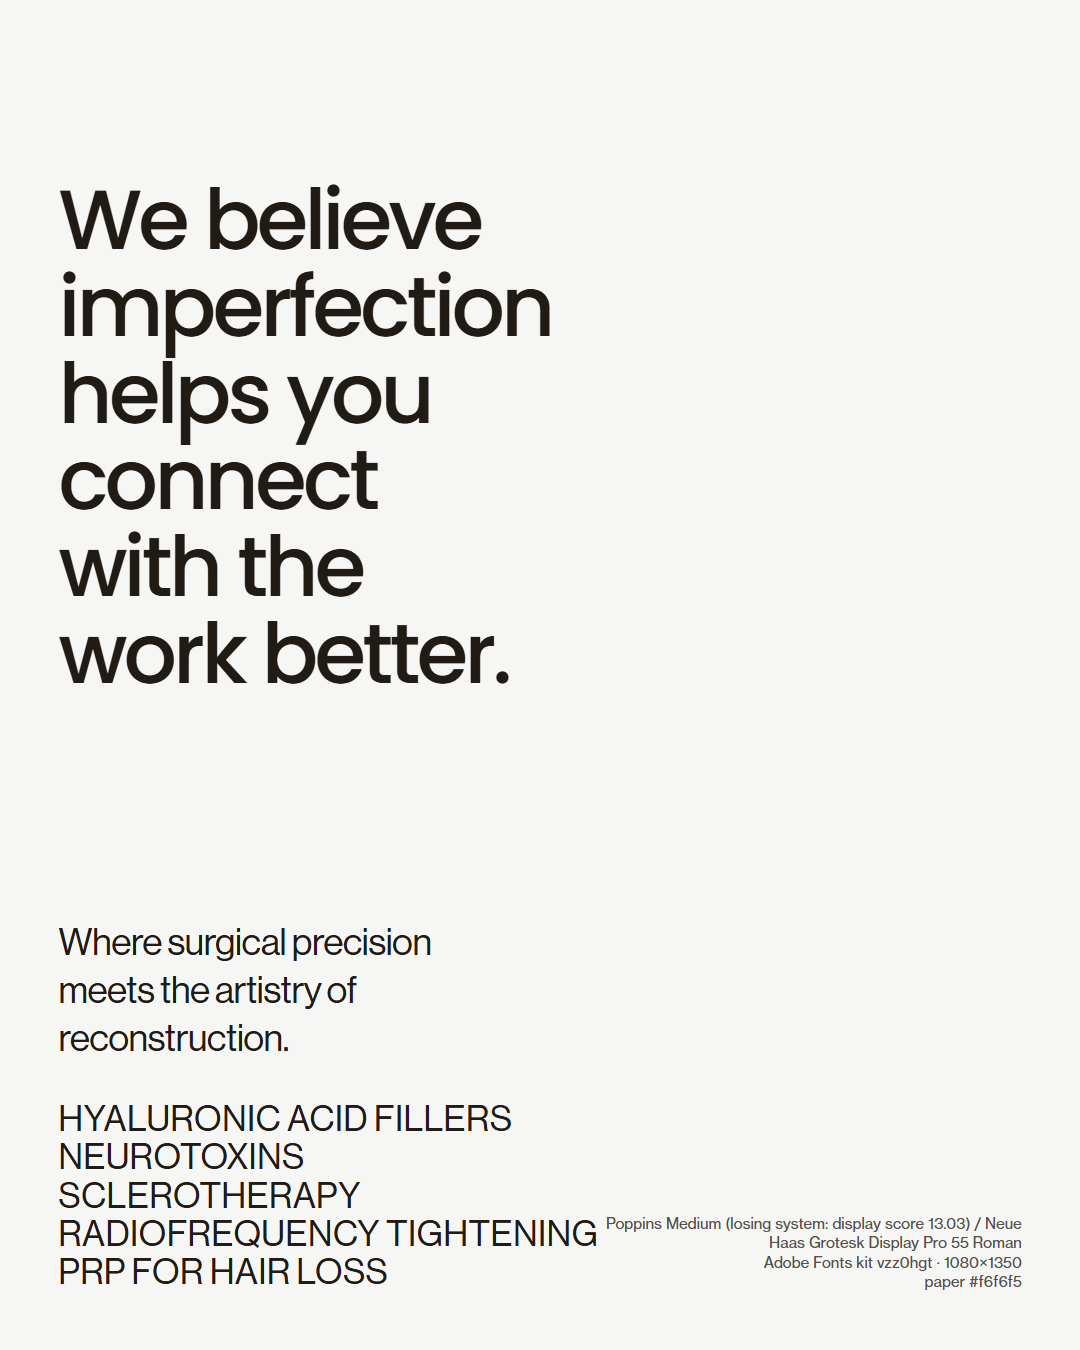
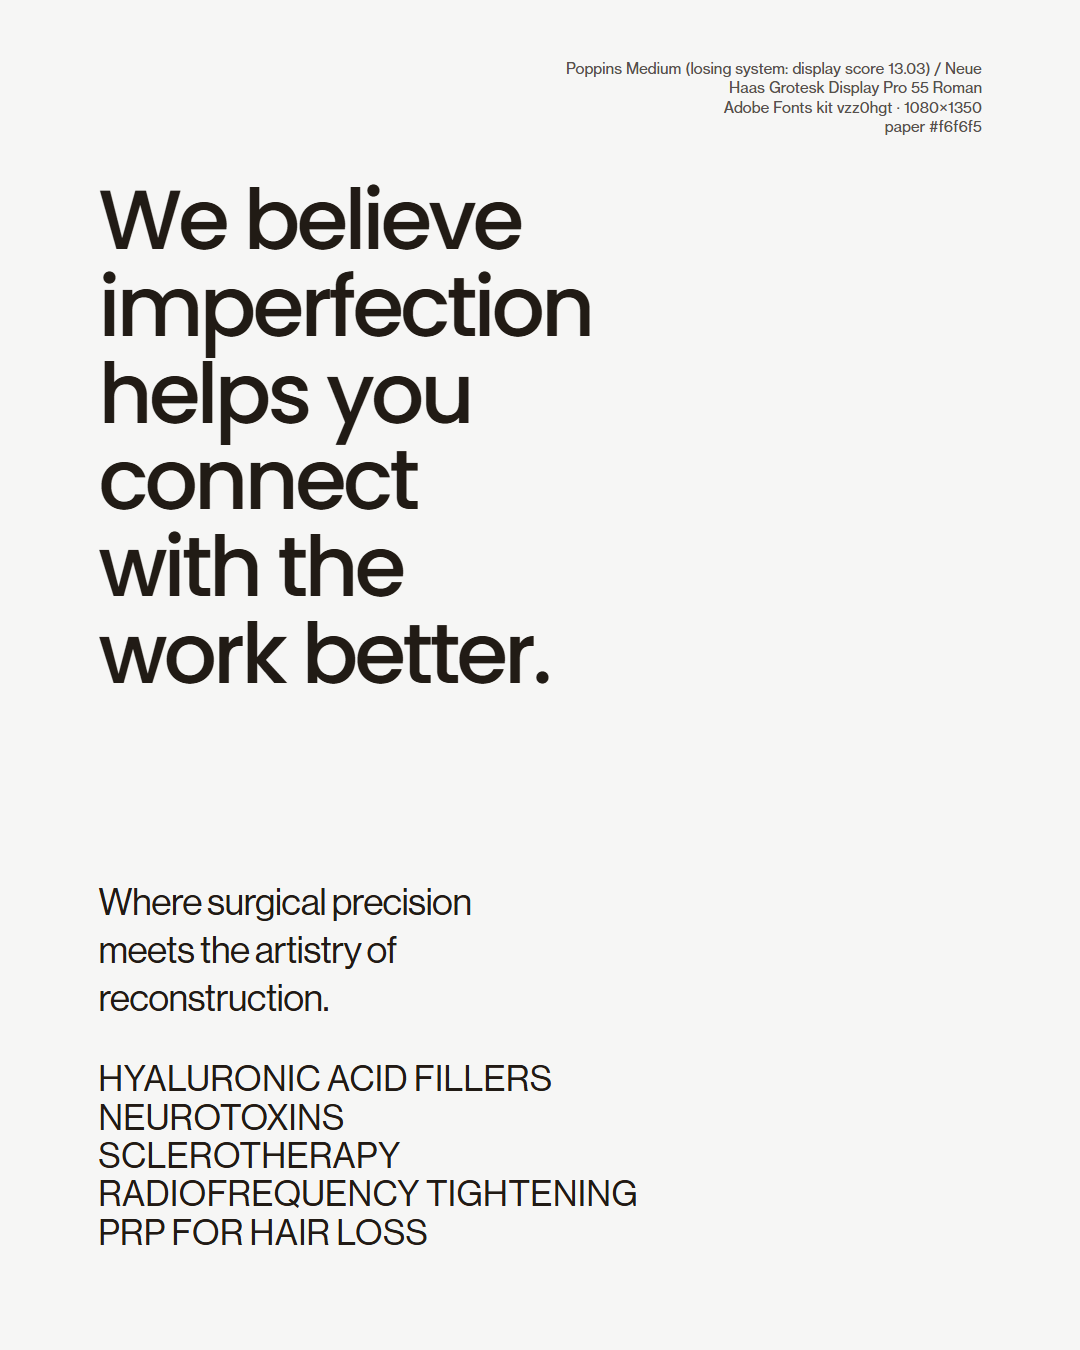
feat(brand): Phase 4 composition — post grid from measured text placement; specimen on the grid
Margin 9.1% (Instagram median, edge-touching posts excluded), 2 column starts (13.6%, 53.1%), subject middle-centre 28/39 board and 38/59 posts, safe areas for 4:5, 1:1, 9:16. Specimen re-rendered on the grid.

Changed region(s): [[0.0306, 0.6533, 0.9472, 0.9644], [0.0611, 0.1244, 0.55, 0.5289], [0.5194, 0.0311, 0.9167, 0.1244]]

diff --git a/brand/scripts/composition.py b/brand/scripts/composition.py
@@ -1,0 +1,98 @@
+"""BRANDKIT Phase 4 composition -> the post grid. Every number from metrics/pixels.json (or fonts/specimen/spec.json),
+else marked judgment call. -> composition/grid.json, composition/GRID.md, fig/composition_*.png. brand-venv python -I."""
+import json, pathlib, statistics as st, sys
+from collections import Counter
+import numpy as np
+import matplotlib; matplotlib.use("Agg")
+import matplotlib.pyplot as plt
+from matplotlib.patches import Rectangle
+from sklearn.cluster import KMeans
+from sklearn.metrics import silhouette_score
+
+sys.stdout.reconfigure(encoding="utf-8")
+B = pathlib.Path(__file__).resolve().parents[1]; O = B / "composition"; O.mkdir(exist_ok=True); FIG = B / "fig"
+px = json.load(open(B / "metrics" / "pixels.json", encoding="utf-8")); spec = json.load(open(B / "fonts" / "specimen" / "spec.json", encoding="utf-8"))
+R, IM = px["regions"], list(px["images"].values())
+INK, MUTE, RULE, PAPER = "#211b15", "#7d8075", "#d7d5d0", "#f6f6f5"
+plt.rcParams.update({"font.family": "Arial", "font.size": 9, "axes.edgecolor": MUTE, "axes.labelcolor": INK, "xtick.color": MUTE, "ytick.color": MUTE})
+
+def med(vals): vals = [v for v in vals if v is not None]; return round(st.median(vals), 2) if vals else None
+g = {"cite": {}}
+# margins: instagram image-level median left margin; edge-touching text (0) is excluded for the safe area (it is full-bleed type / UI, not a margin habit)
+ig_im = [i for i in IM if i["source"] == "instagram"]
+margins = [i["text_margin_left_pct"] for i in ig_im if i.get("text_margin_left_pct")]
+edges = [i["text_edge_min_pct"] for i in ig_im if i.get("text_edge_min_pct")]
+g["margin_pct_w"] = med(margins); g["cite"]["margin_pct_w"] = f"pixels.json images source=instagram median text_margin_left_pct (n={len(margins)}, zeros excluded)"
+g["safe_edge_pct_w"] = med(edges); g["cite"]["safe_edge_pct_w"] = f"pixels.json images source=instagram median text_edge_min_pct (n={len(edges)}, zeros excluded)"
+touching = sum(1 for i in ig_im if i.get("text_edge_min_pct") == 0)
+g["edge_touching_posts"] = touching
+# columns: k-means on instagram text left edges (not touching the edge); k by silhouette
+lefts = np.array([[r["left_pct"]] for r in R if r["source"] == "instagram" and r["left_pct"] > 1])
+best = max(range(2, 7), key=lambda k: silhouette_score(lefts, KMeans(k, n_init=10, random_state=0).fit_predict(lefts)))
+km = KMeans(best, n_init=10, random_state=0).fit(lefts)
+cols = sorted(round(float(c), 1) for c in km.cluster_centers_.ravel())
+g["column_starts_pct_w"] = cols; g["columns"] = best
+g["cite"]["columns"] = f"k-means on pixels.json regions source=instagram left_pct > 1 (n={len(lefts)}), k={best} by silhouette over 2..6"
+# subject placement
+cells = {s: Counter(i["subject_thirds_cell"] for i in IM if i["source"] == s and i.get("subject_thirds_cell")) for s in ("board", "instagram")}
+g["subject_cells"] = {s: dict(c) for s, c in cells.items()}; g["cite"]["subject_cells"] = "pixels.json images subject_thirds_cell"
+g["text_area_pct"] = {s: med([i["text_area_pct"] for i in IM if i["source"] == s]) for s in ("board", "instagram")}
+g["cite"]["text_area_pct"] = "pixels.json images median text_area_pct"
+g["headline_block_w_pct"] = spec["roles"]["headline"]["block_w_pct"]; g["caption_block_w_pct"] = spec["roles"]["caption"]["block_w_pct"]
+g["cite"]["block_w"] = "fonts/specimen/spec.json roles (pixels.json instagram medians)"
+# type scale from the spec (1080x1350)
+s = spec["canvases"]["1080x1350"]["sizes"]
+g["type_scale_px_1350"] = {k: v["font_size_px"] for k, v in s.items()}
+g["type_scale_ratio"] = round(s["headline"]["font_size_px"] / s["caption"]["font_size_px"], 3)
+# safe areas per canvas; 9:16 platform UI bands are a judgment call (Instagram story chrome: profile row top, reply bar bottom)
+m = g["margin_pct_w"] / 100
+g["canvases"] = {}
+for name, (w, h) in {"4:5": (1080, 1350), "1:1": (1080, 1080), "9:16": (1080, 1920)}.items():
+    top = bot = round(m * w)
+    if name == "9:16":
+        top, bot = 250, 340
+    g["canvases"][name] = {"w": w, "h": h, "margin_x_px": round(m * w), "safe_top_px": top, "safe_bottom_px": bot,
+                           "columns_x_px": [round(c / 100 * w) for c in cols]}
+g["cite"]["9:16 bands"] = "judgment call: 250 px top / 340 px bottom kept clear of Instagram story chrome"
+json.dump(g, open(O / "grid.json", "w", encoding="utf-8"), indent=1)
+
+# plates (one claim each)
+fig, ax = plt.subplots(figsize=(6, 2.6))
+ax.hist([r["left_pct"] for r in R if r["source"] == "instagram"], bins=50, range=(0, 100), color=RULE, edgecolor=MUTE, lw=.4)
+for c in cols: ax.axvline(c, color=INK, lw=1)
+ax.set_xlabel("text left edge, % of width (Instagram)"); ax.set_ylabel("regions")
+ax.set_title(f"TEXT LINES UP ON {best} COLUMN STARTS: " + " / ".join(f"{c}%" for c in cols), loc="left", fontsize=9, color=INK)
+fig.tight_layout(); fig.savefig(FIG / "composition_columns.png", dpi=200); plt.close(fig)
+
+fig, axs = plt.subplots(1, 2, figsize=(5.6, 2.8))
+names = [["top-left", "top-centre", "top-right"], ["middle-left", "middle-centre", "middle-right"], ["bottom-left", "bottom-centre", "bottom-right"]]
+for ax, src in zip(axs, ("board", "instagram")):
+    M = np.array([[cells[src].get(n, 0) for n in row] for row in names]); ax.imshow(M, cmap="Greys", vmin=0)
+    for (y, x), v in np.ndenumerate(M): ax.text(x, y, v, ha="center", va="center", color=PAPER if v > M.max() / 2 else INK)
+    ax.set_xticks([]); ax.set_yticks([]); ax.set_title(f"{src} (n={M.sum()})", fontsize=9)
+fig.suptitle("THE SUBJECT SITS IN THE MIDDLE CELL", x=0.02, ha="left", fontsize=9, color=INK)
+fig.tight_layout(); fig.savefig(FIG / "composition_subject.png", dpi=200); plt.close(fig)
+
+fig, axs = plt.subplots(1, 3, figsize=(7, 4.2), gridspec_kw={"width_ratios": [1080 / 1350, 1, 1080 / 1920]})
+for ax, (name, c) in zip(axs, g["canvases"].items()):
+    ax.add_patch(Rectangle((0, 0), c["w"], c["h"], fc=PAPER, ec=MUTE, lw=.6))
+    ax.add_patch(Rectangle((c["margin_x_px"], c["safe_bottom_px"]), c["w"] - 2 * c["margin_x_px"], c["h"] - c["safe_top_px"] - c["safe_bottom_px"], fc="none", ec=INK, lw=.8, ls="--"))
+    for x in c["columns_x_px"]: ax.axvline(x, color=RULE, lw=.6)
+    ax.set_xlim(0, c["w"]); ax.set_ylim(0, c["h"]); ax.set_aspect("equal"); ax.axis("off")
+    ax.set_title(f"{name}  {c['w']}×{c['h']}\nmargin {c['margin_x_px']} px", fontsize=8)
+fig.suptitle(f"SAFE AREA = {g['margin_pct_w']}% MARGIN; COLUMNS FROM MEASURED LEFT EDGES", x=0.02, ha="left", fontsize=9, color=INK)
+fig.tight_layout(); fig.savefig(FIG / "composition_safe_areas.png", dpi=200); plt.close(fig)
+
+L = ["# Post grid", "", "Derived from `metrics/pixels.json` (`scripts/composition.py`). Every number cites its row or is a judgment call.", "",
+     f"- **Margin:** {g['margin_pct_w']}% of width ({g['cite']['margin_pct_w']}). {touching} of {len(ig_im)} posts run text to the edge; that is full-bleed type or UI, not the margin habit.",
+     f"- **Columns:** {best} starts at {', '.join(str(c) + '%' for c in cols)} of width ({g['cite']['columns']}).",
+     f"- **Subject:** middle-centre in {cells['board'].get('middle-centre', 0)}/{sum(cells['board'].values())} board images and {cells['instagram'].get('middle-centre', 0)}/{sum(cells['instagram'].values())} posts ({g['cite']['subject_cells']}).",
+     f"- **Text area:** {g['text_area_pct']['board']}% of the board frame, {g['text_area_pct']['instagram']}% of a post ({g['cite']['text_area_pct']}).",
+     f"- **Measure:** headline {g['headline_block_w_pct']}% wide, caption {g['caption_block_w_pct']}% ({g['cite']['block_w']}).",
+     f"- **Type scale (1080×1350):** headline {g['type_scale_px_1350']['headline']} px, caption {g['type_scale_px_1350']['caption']} px, label {g['type_scale_px_1350']['label']} px; ratio {g['type_scale_ratio']}.", "",
+     "| Canvas | Margin x | Safe top | Safe bottom | Column x (px) |", "|---|---|---|---|---|"]
+for n, c in g["canvases"].items():
+    L.append(f"| {n} {c['w']}×{c['h']} | {c['margin_x_px']} | {c['safe_top_px']} | {c['safe_bottom_px']} | {', '.join(map(str, c['columns_x_px']))} |")
+L += ["", f"9:16 top/bottom bands: {g['cite']['9:16 bands']}.", "", "Plates: `fig/composition_columns.png`, `fig/composition_subject.png`, `fig/composition_safe_areas.png`."]
+(O / "GRID.md").write_text("\n".join(L) + "\n", encoding="utf-8")
+print("\n".join(L))

diff --git a/brand/scripts/type_spec.py b/brand/scripts/type_spec.py
@@ -36,7 +36,7 @@ ig = [i for i in IMG if i.get("source") == "instagram"] if isinstance(IMG, list)
 def img_med(k):
     v = [i[k] for i in ig if i.get(k) is not None]
     return st.median(v) if v else None
-spec["layout"] = {"margin_pct_w": img_med("text_margin_left_pct"), "margin_cite": "pixels.json images source=instagram median text_margin_left_pct",
+spec["layout"] = {"margin_pct_w": json.load(open(B / "composition" / "grid.json"))["margin_pct_w"], "margin_cite": "composition/grid.json margin_pct_w (pixels.json instagram text_margin_left_pct, edge-touching posts excluded)",
                   "headline_top_pct_h": st.median([i["text_margin_top_pct"] for i in IMG.values() if i["source"] == "board" and i.get("text_margin_top_pct") is not None]), "headline_top_cite": "pixels.json images source=board median text_margin_top_pct",
                   "align": "left", "align_cite": "PIXELS.md stack alignment: board left 53 / centre 10 / right 8; instagram left 42 / centre 21 / right 13"}
 body = 17

diff --git a/brand/DECISIONS.md b/brand/DECISIONS.md
@@ -30,3 +30,4 @@ Run spec: `brand/SPEC.md` (BRANDKIT_RUN.md, Naim, 2026-11-05). The inputs:
 22. **Losing systems are the best display face of each other Adobe classification** (from each family page's own filter tags): Poppins (sans) and Cormorant Garamond (serif). Their families were added so they render. On Instagram the account itself matches the serif route, and SYSTEM.md says so.
 23. **The specimen renders through a web kit** (`font_create_kit`, kit vzz0hgt; domains localhost, 127.0.0.1, waituntilmay.com), because Creative Cloud's desktop activation doesn't expose the new families to headless Chromium. Every render checked `document.fonts.check` for its fonts: all true, no fallbacks.
 24. **Tracking is calibrated, not copied.** pixels.json tracking includes each font's sidebearings, so every kit font was rendered at zero tracking and measured with pixel_metrics' own `glyphs()`. Letter-spacing is the difference (headline +0.008 em, caption −0.016 em, label +0.010 em). Story (1080×1920) sizes reuse the 4:5 sizes: a judgment call, since a story is read at the same width.
+25. **The post grid comes from Instagram text placement** (`composition/grid.json`). Margin is 9.1% of width, the median left margin with the 27 of 59 posts whose text touches the edge left out (full-bleed type or UI, not a margin habit). The specimen's earlier 5.4% included them. Two column starts at 13.6% and 53.1% (k-means, k chosen by silhouette). The 9:16 bands, 250 px top and 340 px bottom, are a judgment call for story chrome. The specimen now reads its margin and safe areas from the grid and was re-rendered (14 plates, kit fonts loaded).

diff --git a/brand/composition/GRID.md b/brand/composition/GRID.md
@@ -1,0 +1,20 @@
+# Post grid
+
+Derived from `metrics/pixels.json` (`scripts/composition.py`). Every number cites its row or is a judgment call.
+
+- **Margin:** 9.1% of width (pixels.json images source=instagram median text_margin_left_pct (n=38, zeros excluded)). 27 of 59 posts run text to the edge; that is full-bleed type or UI, not the margin habit.
+- **Columns:** 2 starts at 13.6%, 53.1% of width (k-means on pixels.json regions source=instagram left_pct > 1 (n=225), k=2 by silhouette over 2..6).
+- **Subject:** middle-centre in 28/39 board images and 38/59 posts (pixels.json images subject_thirds_cell).
+- **Text area:** 7.88% of the board frame, 10.38% of a post (pixels.json images median text_area_pct).
+- **Measure:** headline 45.7% wide, caption 35.7% (fonts/specimen/spec.json roles (pixels.json instagram medians)).
+- **Type scale (1080×1350):** headline 82.1 px, caption 37.6 px, label 35.6 px; ratio 2.184.
+
+| Canvas | Margin x | Safe top | Safe bottom | Column x (px) |
+|---|---|---|---|---|
+| 4:5 1080×1350 | 98 | 98 | 98 | 147, 573 |
+| 1:1 1080×1080 | 98 | 98 | 98 | 147, 573 |
+| 9:16 1080×1920 | 98 | 250 | 340 | 147, 573 |
+
+9:16 top/bottom bands: judgment call: 250 px top / 340 px bottom kept clear of Instagram story chrome.
+
+Plates: `fig/composition_columns.png`, `fig/composition_subject.png`, `fig/composition_safe_areas.png`.

diff --git a/brand/fonts/SYSTEM.md b/brand/fonts/SYSTEM.md
@@ -25,7 +25,7 @@ Size / leading. Font size = measured cap height (% of canvas height) / the font'
 
 ## Layout
 
-- Margin: 5.4% of width (pixels.json images source=instagram median text_margin_left_pct).
+- Margin: 9.1% of width (composition/grid.json margin_pct_w (pixels.json instagram text_margin_left_pct, edge-touching posts excluded)).
 - Headline top: 13.8% of height (pixels.json images source=board median text_margin_top_pct).
 - Alignment: left (PIXELS.md stack alignment: board left 53 / centre 10 / right 8; instagram left 42 / centre 21 / right 13).
 
